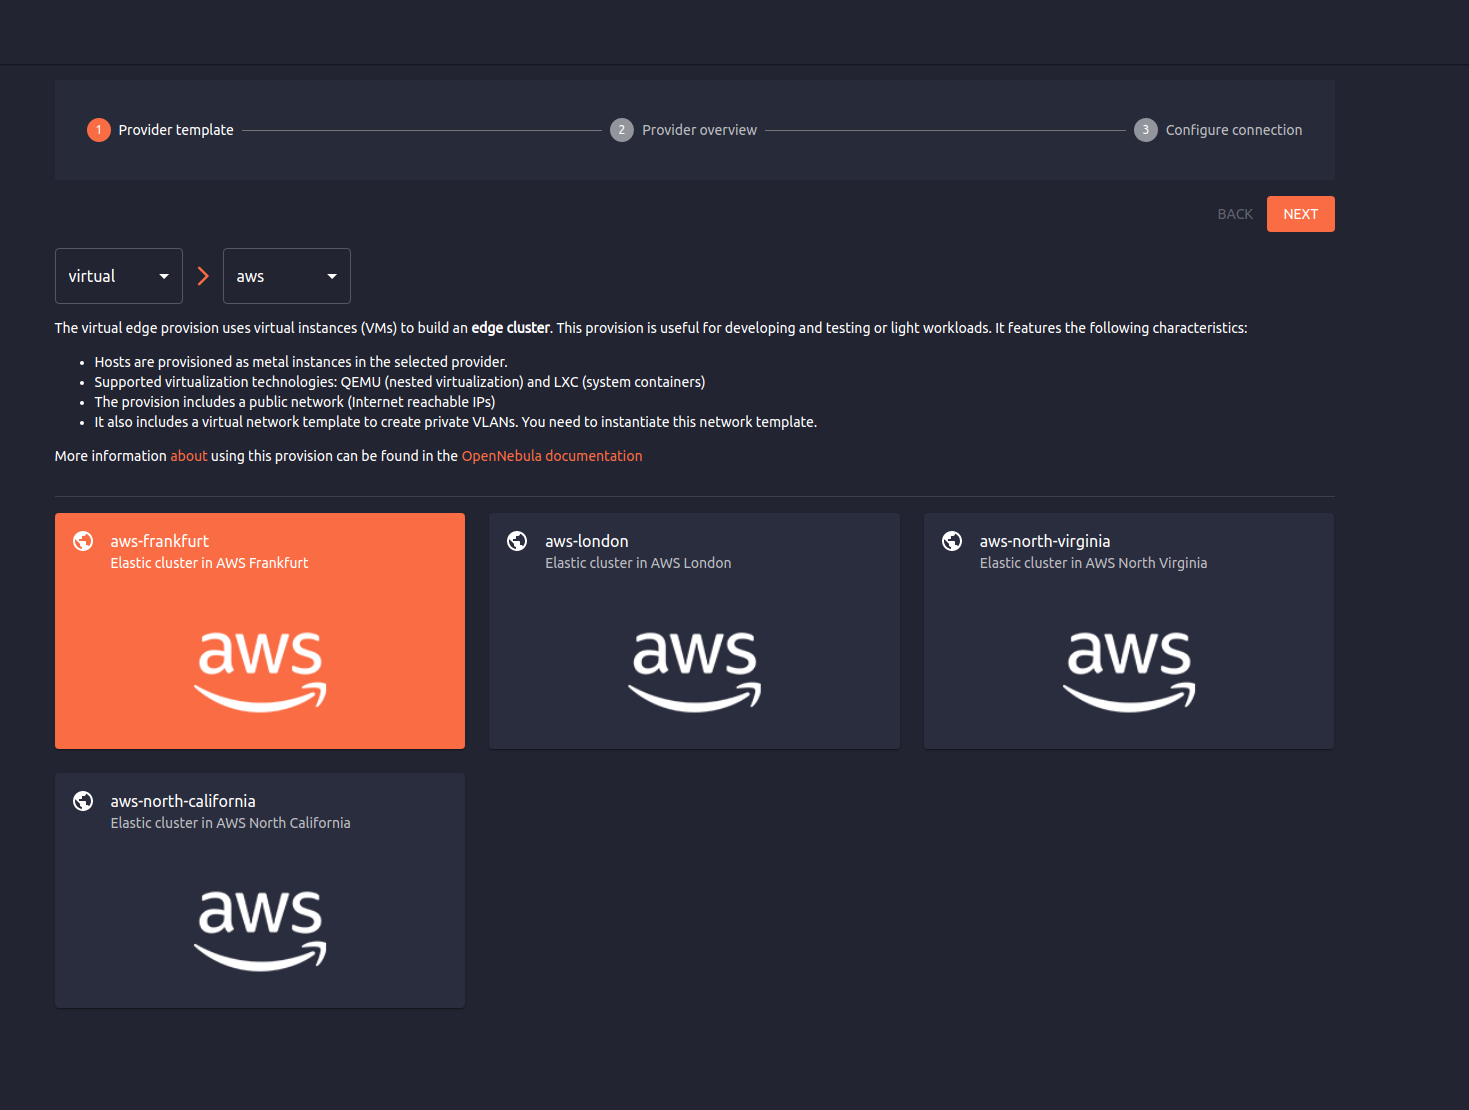
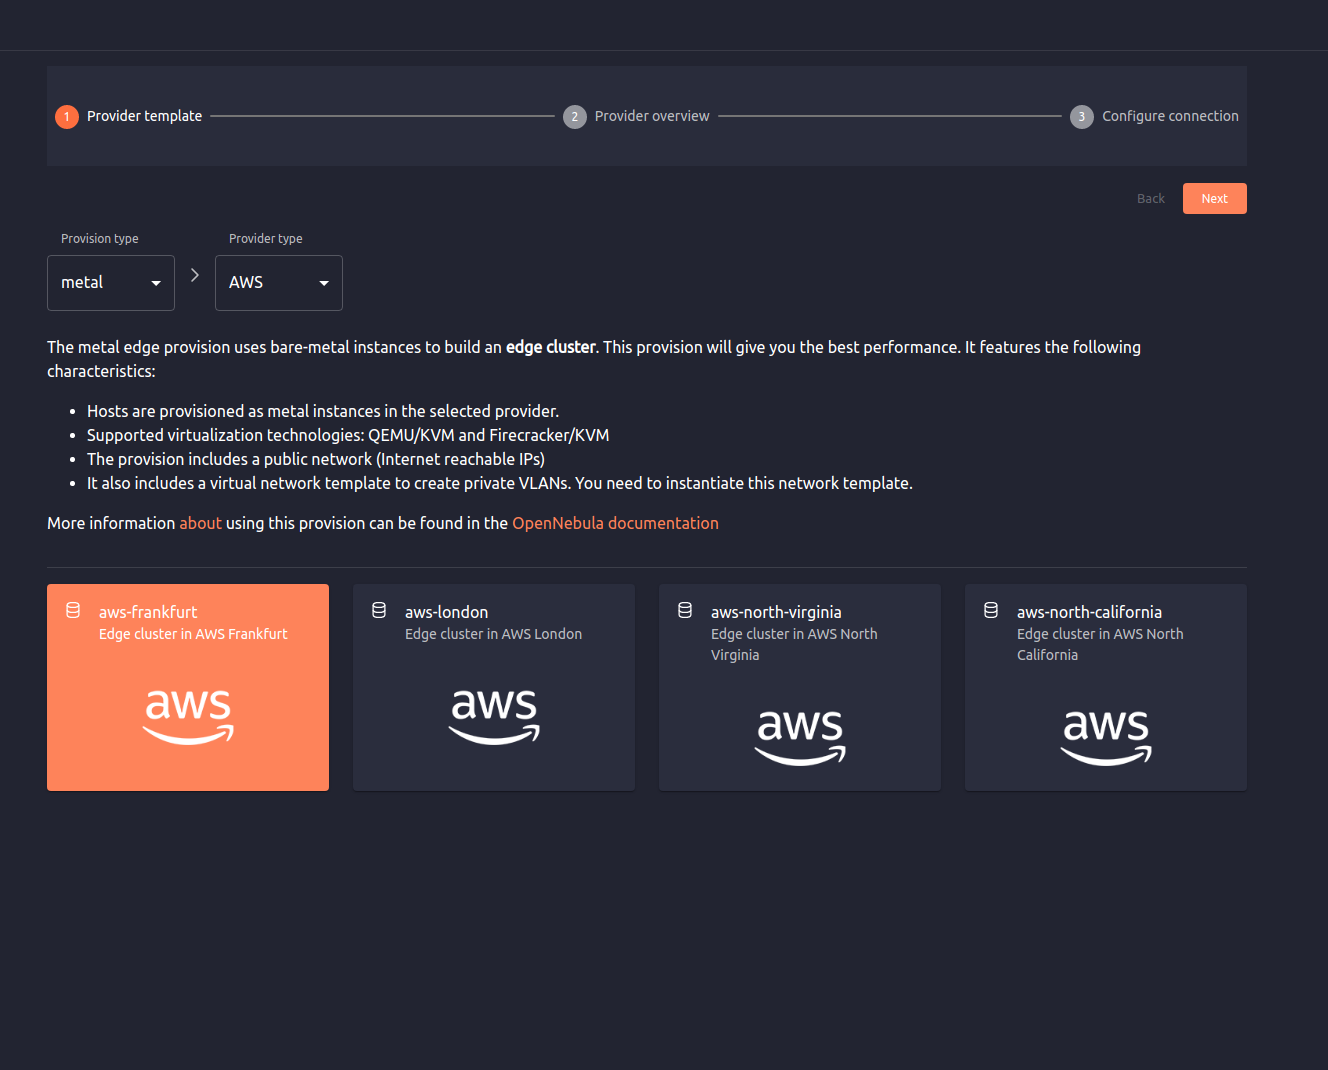
F OpenNebula/one#5787: add documentation

diff --git a/source/quick_start/operation_basics/provisioning_edge_cluster.rst b/source/quick_start/operation_basics/provisioning_edge_cluster.rst
@@ -7,7 +7,7 @@ Provisioning an Edge Cluster
 
 In this section you can check all the steps needed to deploy an **Edge Cluster**. This involves the FireEdge OneProvision GUI and Sunstone to manage the resources created in OpenNebula.
 
-.. note:: We'll be creating a virtual Edge Cluster with LXC hypervisor, suitable for deploying containers. If you're planning to go all the way and to also try the deployment of VMs and K8s cluster, we recommend using a metal Edge Cluster deployment with a KVM hypervisor.
+.. note:: We'll be creating a metal Edge Cluster with LXC hypervisor, suitable for deploying containers. If you're planning to go all the way and to also try the deployment of VMs and K8s cluster, we recommend using a metal Edge Cluster deployment with a KVM hypervisor.
 
 An Edge Cluster is a group of resources in OpenNebula and the corresponding resources in AWS. OpenNebula provides a specification of the cluster ready to be created.
 
@@ -51,7 +51,7 @@ First, to **create a provider**, go to provider list view:
 
 |image_provider_list_empty|
 
-Then, **click the plus button** and fill in the form. We will be using the virtual Edge Cluster type with the LXC hypervisor.
+Then, **click the plus button** and fill in the form. We will be using the metal Edge Cluster type with the LXC hypervisor.
 
 |image_provider_create_step1|
 
@@ -61,7 +61,7 @@ Then, **click the plus button** and fill in the form. We will be using the virtu
 
 You now have a **new provider**.
 
-Step 3: Provision a Virtual Edge Cluster
+Step 3: Provision a Metal Edge Cluster
 ================================================================================
 
 The user needs to provide the following inputs to create the provision:
@@ -77,7 +77,7 @@ The user needs to provide the following inputs to create the provision:
 +-----------------------+------------------------------------------------------------------+
 | ``AWS instance type`` | AWS instance type to deploy.                                     |
 +-----------------------+------------------------------------------------------------------+
-| ``Hypervisor``        | Hypervisor to install ``lxc`` (just for virtual servers)         |
+| ``Hypervisor``        | Hypervisor to install ``lxc``.                                   |
 +-----------------------+------------------------------------------------------------------+
 
 Now let's go to **create a provision** and follow the same steps:

diff --git a/source/quick_start/usage_basics/running_containers.rst b/source/quick_start/usage_basics/running_containers.rst
@@ -4,11 +4,11 @@
 Running Containers
 ==================
 
-.. important:: This guide uses a virtual Edge Cluster and LXC as *virtualization* technology, but it **also applies** to metal Edge Clusters running either LXC or Firecraker.
+.. important:: This guide uses a metal Edge Cluster and LXC as *virtualization* technology, but it **also applies** to metal Edge Clusters running either LXC or Firecraker.
 
 OpenNebula comes out-of-the-box with integrations with various container Marketplaces like Docker Hub, Turnkey Linux and Linux Containers. We are going to use the nginx container from Docker Hub to try out our brand new cloud.
 
-.. warning:: We are going to use the virtual AWS Edge Cluster deployed in the Operations Basics guide in order to achieve this. We are going to assume the naming schema “aws-cluster” (which is the default if you haven't changed it).
+.. warning:: We are going to use the metal AWS Edge Cluster deployed in the Operations Basics guide in order to achieve this. We are going to assume the naming schema “aws-cluster” (which is the default if you haven't changed it).
 
 Step 1. Download the container image from Docker Hub
 ~~~~~~~~~~~~~~~~~~~~~~~~~~~~~~~~~~~~~~~~~~~~~~~~~~~~

diff --git a/source/quick_start/usage_basics/overview.rst b/source/quick_start/usage_basics/overview.rst
@@ -6,6 +6,6 @@ Overview
 
 You made it all the way here, congratulations!
 
-Now it's time to launch some nice services to be hosted by your new OpenNebula cloud. If you followed the Operations Basics guide, you most likely now have an LXC virtual Edge Cluster, so you are good to try out :ref:`running containers <running_containers>`.
+Now it's time to launch some nice services to be hosted by your new OpenNebula cloud. If you followed the Operations Basics guide, you most likely now have an LXC metal Edge Cluster, so you are good to try out :ref:`running containers <running_containers>`.
 
 If you also deploy a KVM metal Edge Cluster (caution, this is pricier) you can also follow the :ref:`running virtual machines <running_virtual_machines>` and :ref:`running Kubernetes clusters <running_containers>` guides.

diff --git a/source/management_and_operations/edge_cluster_management/vultr_cluster.rst b/source/management_and_operations/edge_cluster_management/vultr_cluster.rst
@@ -4,6 +4,8 @@
 Vultr Edge Cluster
 ==========================
 
+.. include:: activate_virtual.txt
+
 Vultr supports both virtual and metal clusters. Vultr **metal** use a bare-metal host to create OpenNebula Hosts. This provision is better for **KVM** & **Firecracker**. Vultr **virtual** Edge Clusters use a Virtual Machine instance to create OpenNebula Hosts. This provision is better suited for PaaS-like workloads. Virtual Vultr Edge Clusters primarily run **LXC** to execute system containers.
 
 Vultr Provider

diff --git a/source/intro_release_notes/release_notes/compatibility.rst b/source/intro_release_notes/release_notes/compatibility.rst
@@ -24,7 +24,15 @@ Go API
 ======
 
 Distributed Edge Provisioning
-=============================
+================================================================================
+
+The following providers has been disabled by default:
+
+- DigitalOcean
+- Google
+- Vultr (Metal & virrtual)
+
+If you want to use them, please check their specific documentation section.
 
 PyONE
 ========================

diff --git a/source/management_and_operations/edge_cluster_management/do_cluster.rst b/source/management_and_operations/edge_cluster_management/do_cluster.rst
@@ -4,6 +4,8 @@
 DigitalOcean Edge Cluster
 ==========================
 
+.. include:: activate_virtual.txt
+
 DigitalOcean supports **Virtual** Edge Clusters, that use a virtual machine instance to create OpenNebula Hosts. This provision is better suited for PaaS-like workloads. Virtual DigitalOcean Edge Clusters run primarily **LXC** to execute system containers.
 
 DigitalOcean Providers

diff --git a/source/management_and_operations/edge_cluster_management/google_cluster.rst b/source/management_and_operations/edge_cluster_management/google_cluster.rst
@@ -4,6 +4,8 @@
 Google Edge Cluster
 ===================
 
+.. include:: activate_virtual.txt
+
 Google supports **virtual** Edge Clusters, that use a Virtual Machine instance to create OpenNebula Hosts. This provision is better suited for PaaS-like workloads. Virtual Google Edge Clusters primarily run **LXC** to execute system containers.
 
 Google Providers

diff --git a/source/intro_release_notes/release_notes/whats_new.rst b/source/intro_release_notes/release_notes/whats_new.rst
@@ -44,6 +44,8 @@ CLI
 Distributed Edge Provisioning
 ================================================================================
 
+- Virtual drivers has been disabled by default, check their specific section to know how to enable them.
+
 KVM
 ===
 - NVIDIA vGPU support has been added to KVM driver, :ref:`check this <kvm_vgpu>` for more information.
